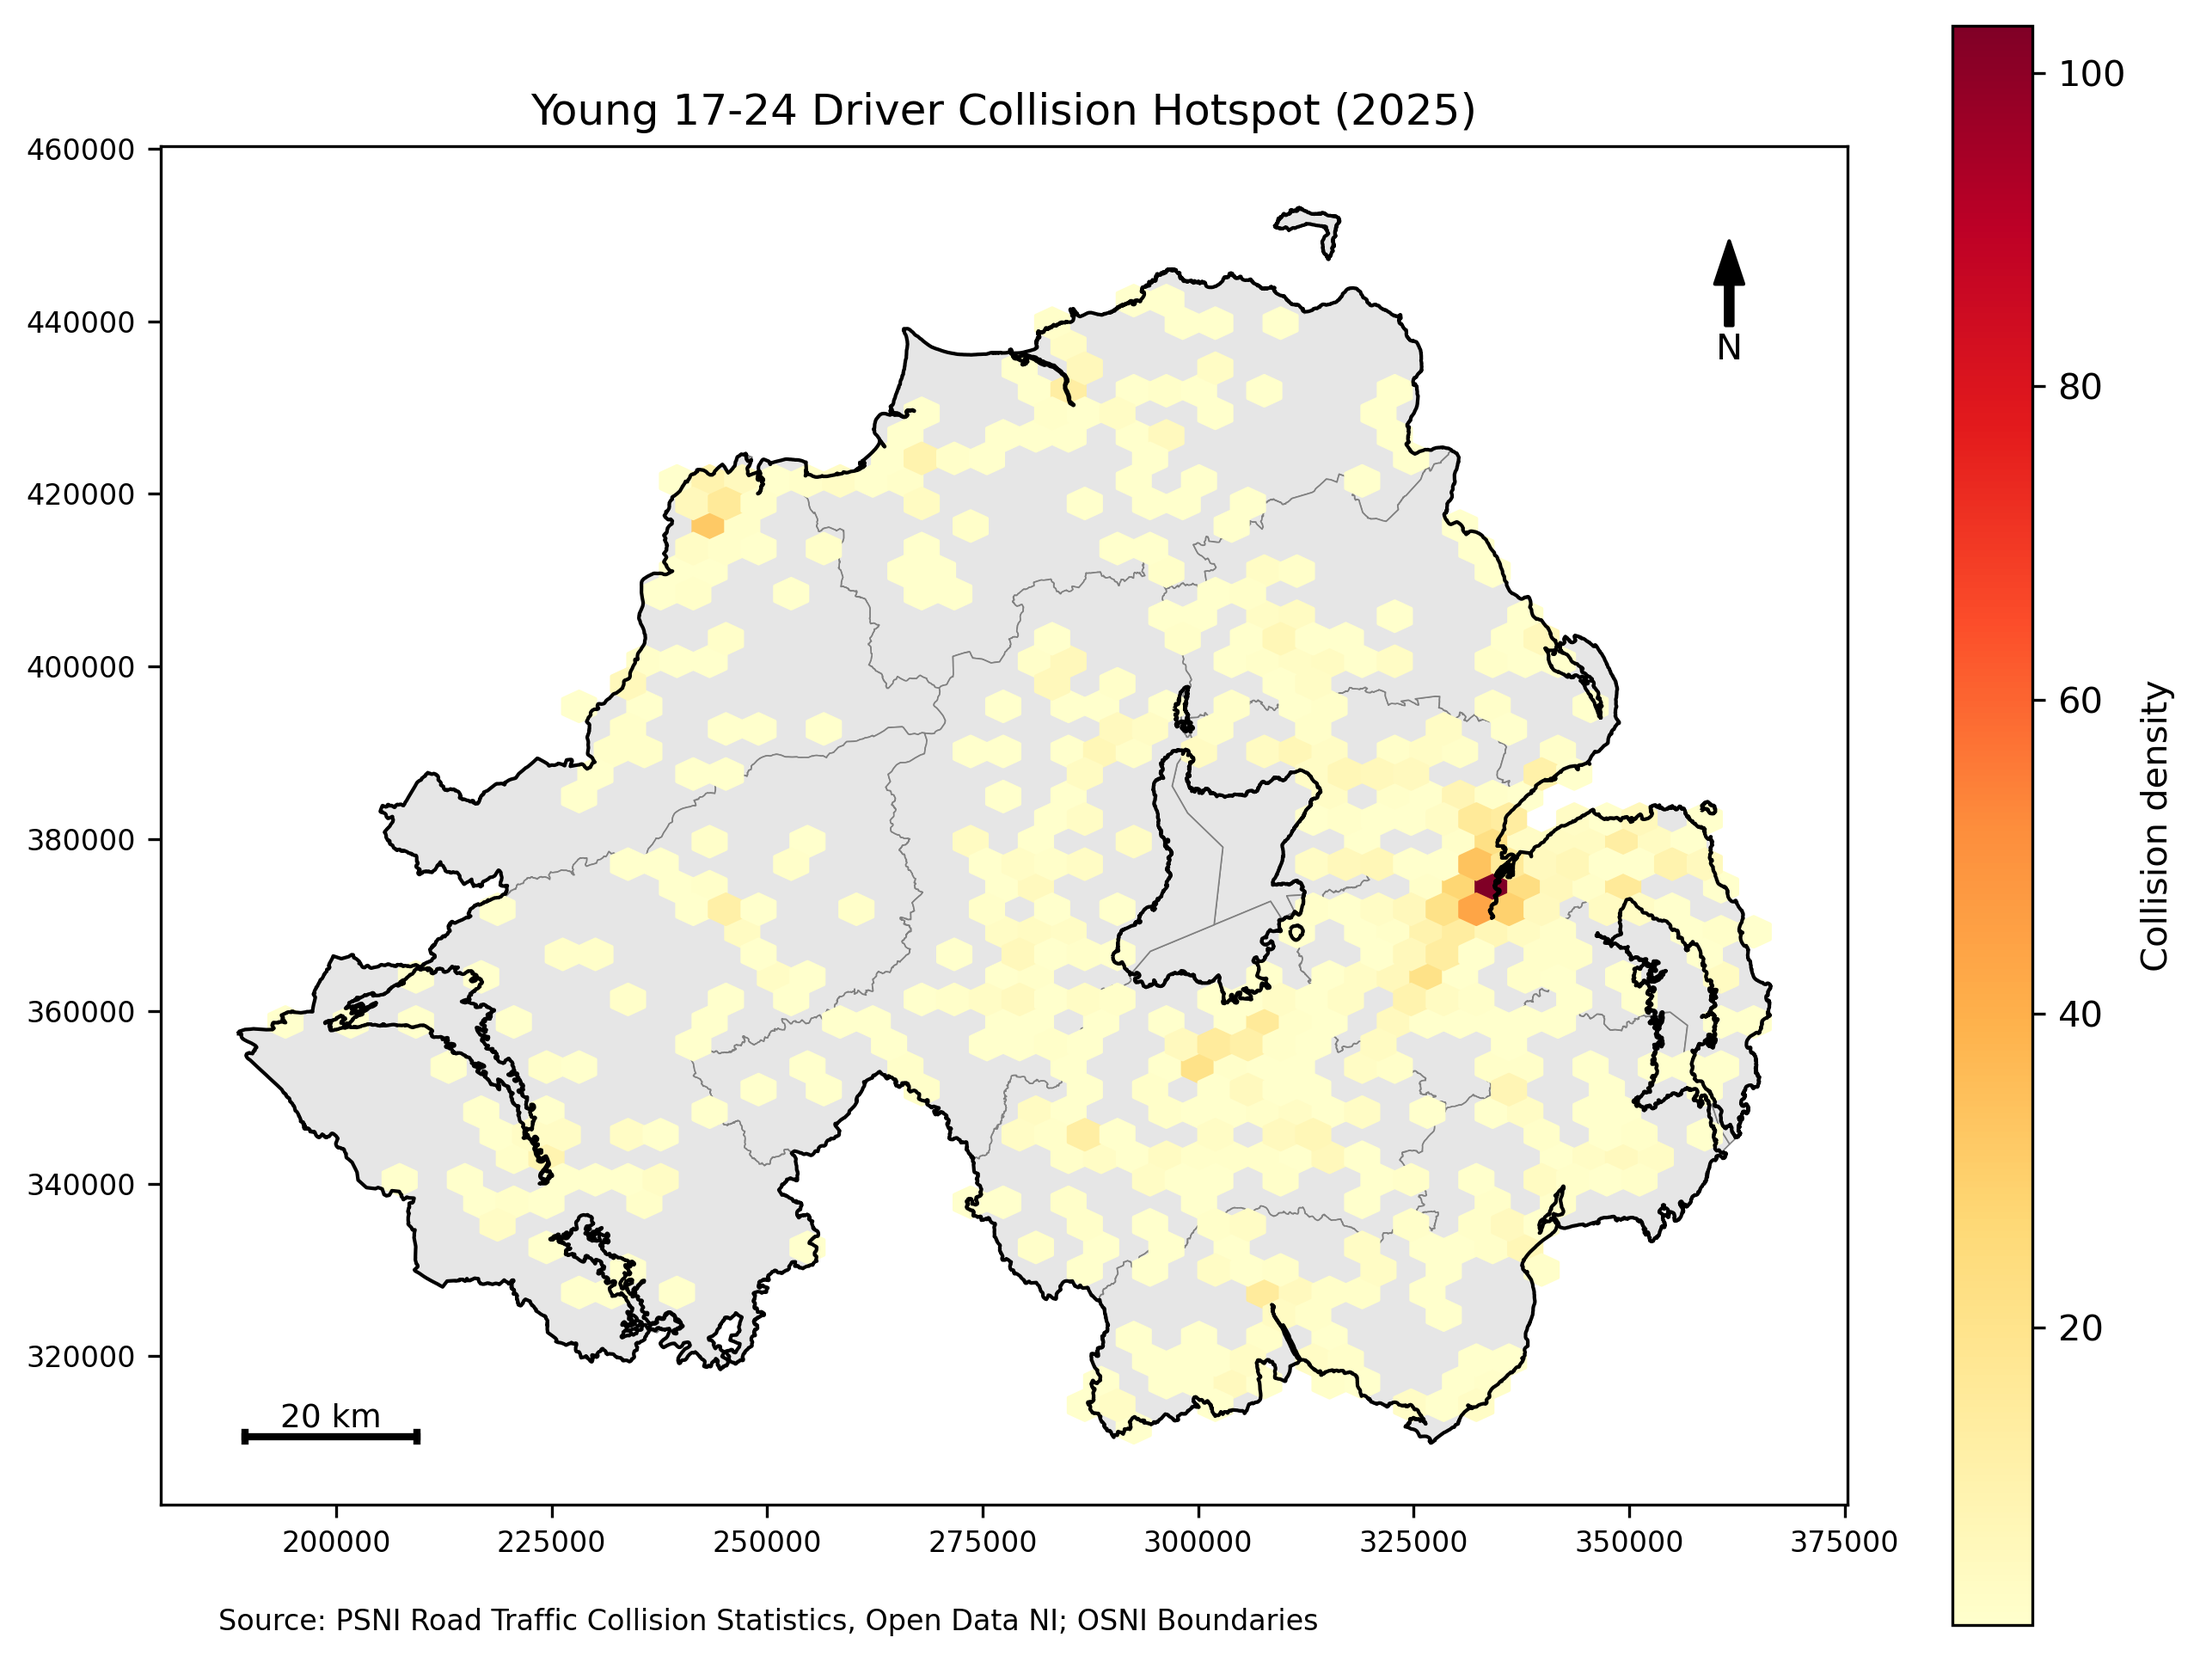
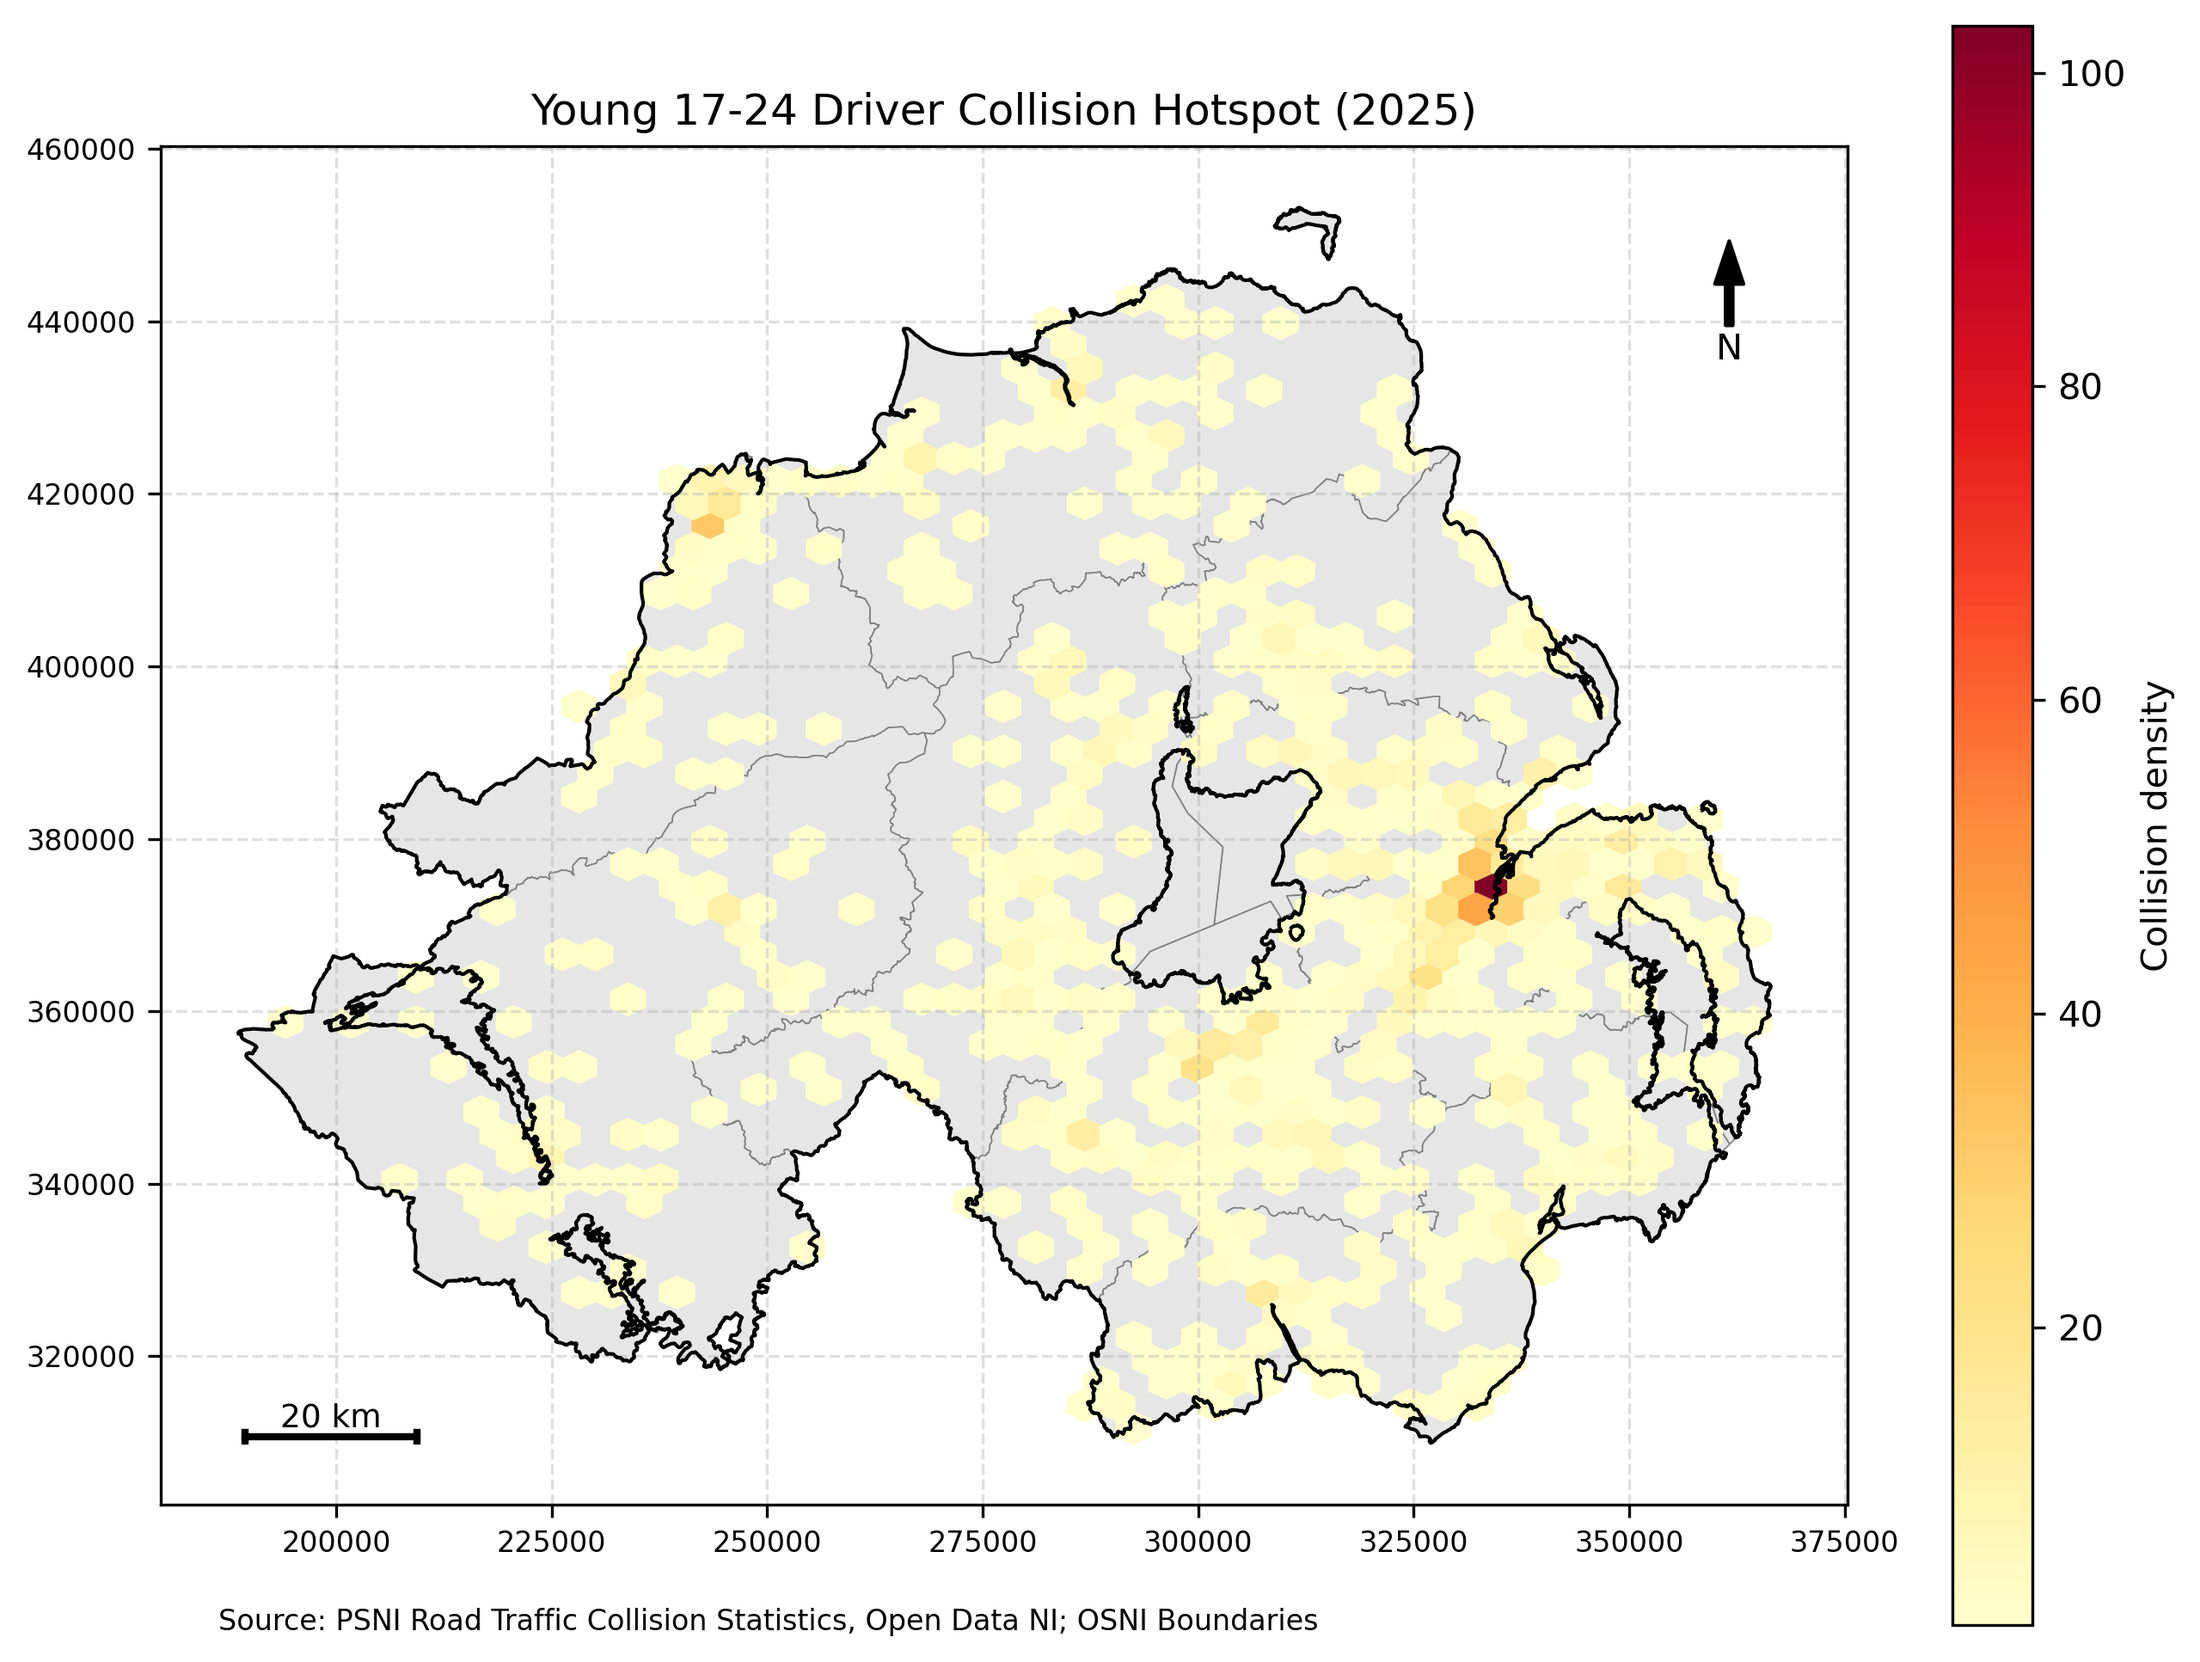
adding gidlines to hotspot map
adding gridlines to the hotspot maps so it's match the other maps

diff --git a/ni_collision_analysis.py b/ni_collision_analysis.py
@@ -347,6 +347,8 @@ def create_driver_agegroup_hotspot(joined_vehicles, districts, outline, output_d
     ax.set_title(f"{agegroup_label} Driver Collision Hotspot ({year})")
     ax.tick_params(axis="both", labelsize=8)
 
+    plt.grid(axis="both", linestyle="--", alpha=0.4)
+
     add_map_elements(ax)
 
     plt.tight_layout()
